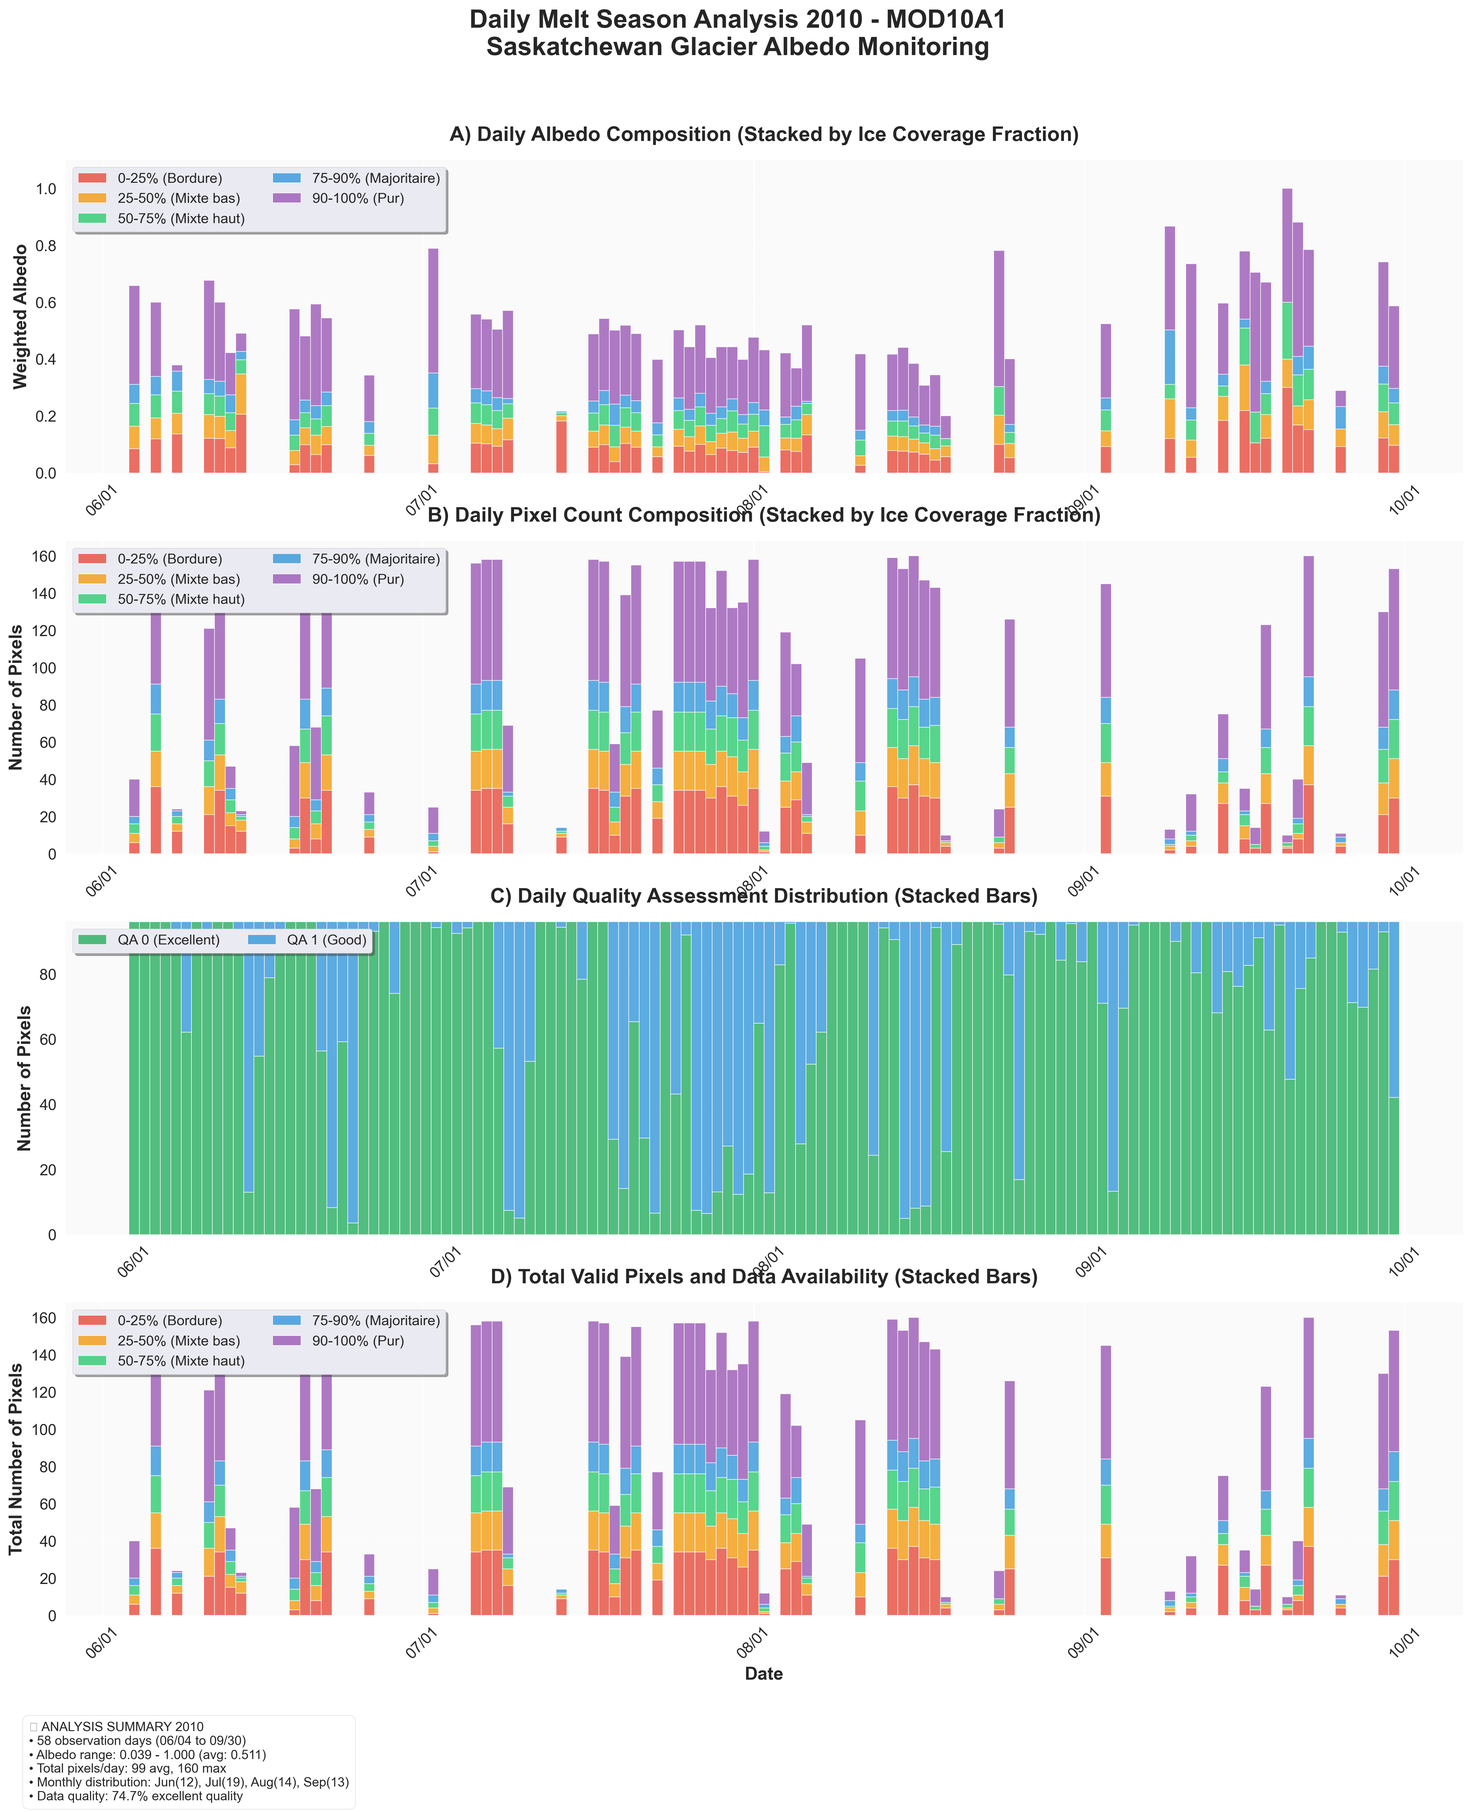
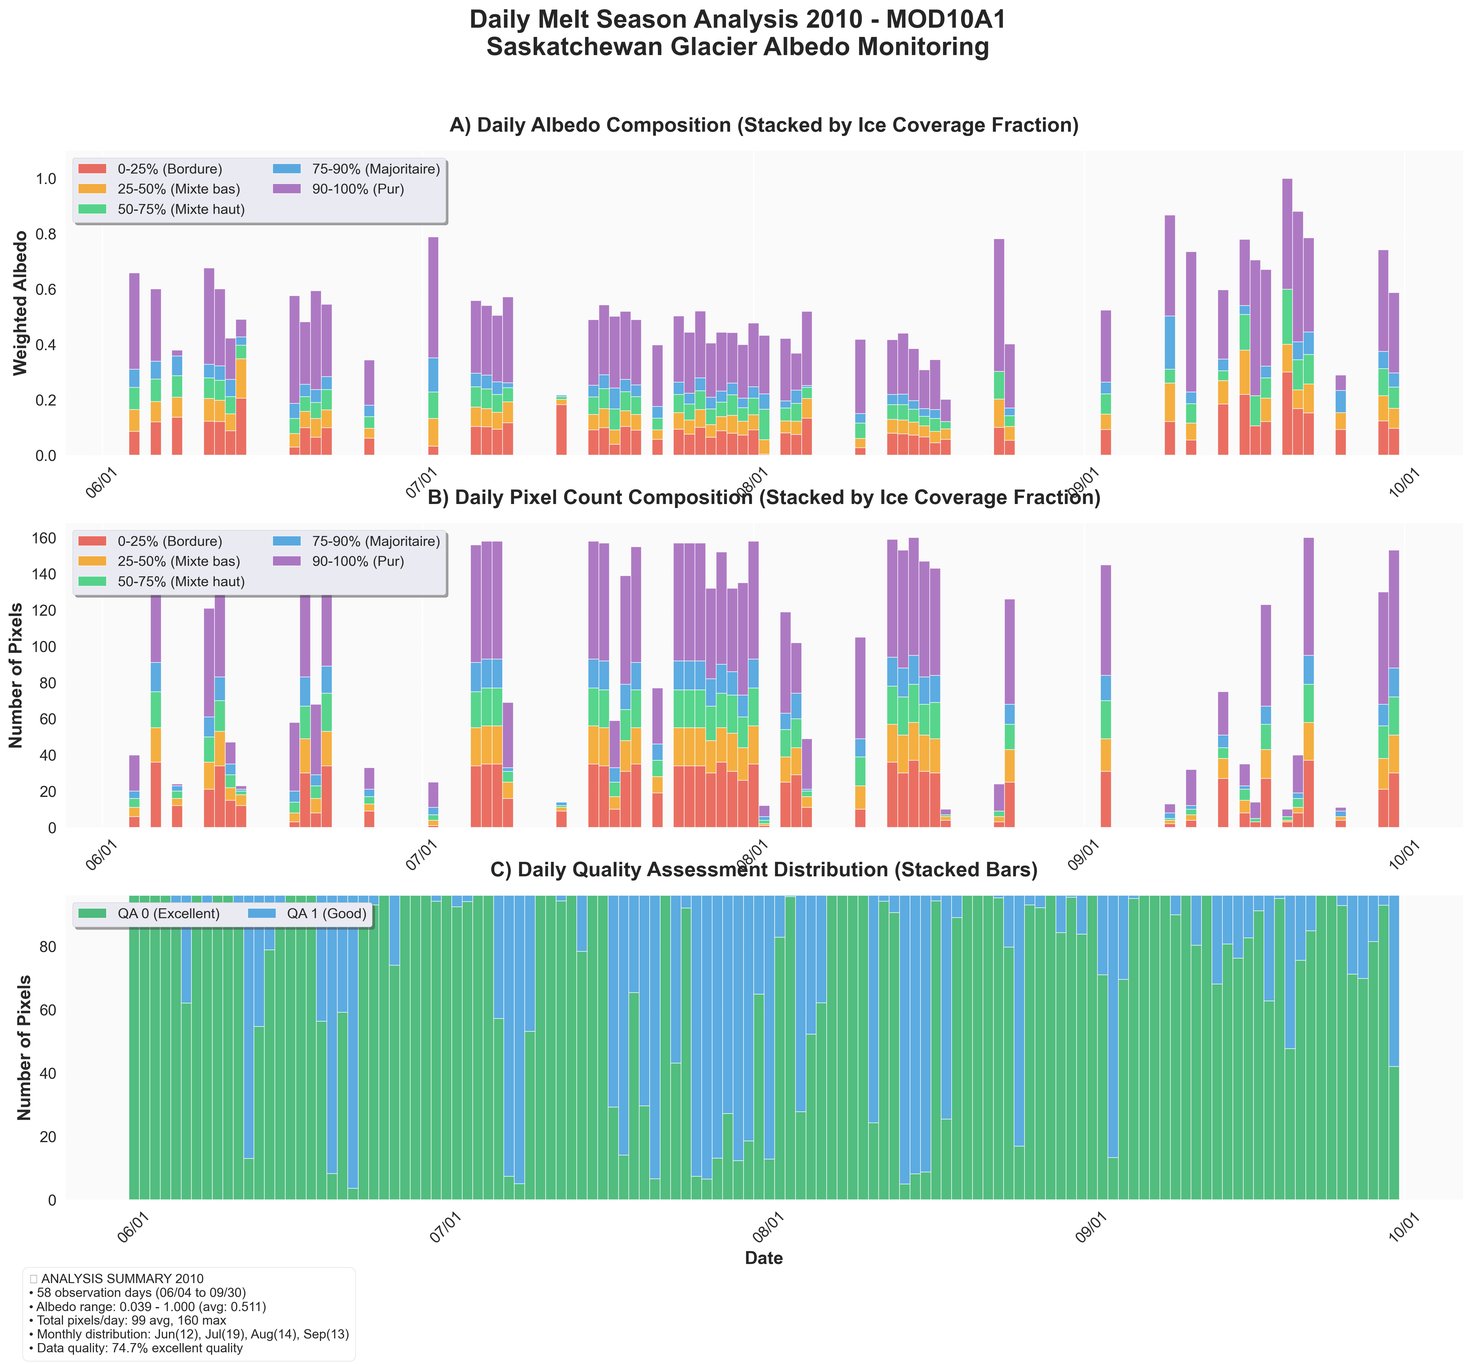
Fix timeseries comparison plots and add daily melt season comparison
- Simplified timeseries comparison from 3 to 2 panels (removed redundant panel)
- Added new plot_daily_melt_season_comparison() function for yearly analysis
- Creates individual yearly plots (2010-2024) showing daily albedo values
- MCD43A3 (circles) vs MOD10A1 (triangles) with monthly color coding
- Added run_daily_melt_season_comparison() function in analysis_functions
- Updated comparison menu with new option for daily melt season plots
- Added fraction selection interface for targeted analysis
- Enhanced statistics display with correlation, RMSE, and bias per year

🤖 Generated with [Claude Code](https://claude.ai/code)

diff --git a/src/saskatchewan_albedo/visualization/comparison_plots.py b/src/saskatchewan_albedo/visualization/comparison_plots.py
@@ -219,8 +219,8 @@ class ComparisonVisualizer:
         
         print(f"✅ Affichage de {len(plot_data)} points de données pour {fraction}")
         
-        # Créer le graphique avec style moderne - 3 panneaux
-        fig, (ax1, ax2, ax3) = plt.subplots(3, 1, figsize=(16, 16), sharex=True)
+        # Créer le graphique avec style moderne - 2 panneaux
+        fig, (ax1, ax2) = plt.subplots(2, 1, figsize=(16, 12), sharex=True)
         
         # GRAPHIQUE 1: SÉRIES TEMPORELLES - POINTS SEULEMENT
         # MCD43A3 - Points bleus
@@ -268,70 +268,14 @@ class ComparisonVisualizer:
         ax2.legend(loc='upper left', frameon=True, fancybox=True, shadow=True, fontsize=12)
         ax2.set_facecolor('#fafafa')
         
-        # GRAPHIQUE 3: COMPARAISON QUOTIDIENNE DES VALEURS D'ALBÉDO
-        print("✅ Génération du panneau de comparaison quotidienne des albédos...")
-        
-        # Obtenir toutes les données originales (pas seulement les merged)
-        mcd_data = self.comparison_data['mcd43a3']
-        mod_data = self.comparison_data['mod10a1']
-        
-        # Filtrer pour la fraction spécifique
-        mcd_fraction_col = f"{fraction}_mean"
-        mod_fraction_col = f"{fraction}_mean"
-        
-        # Points MCD43A3 - TOUS les points disponibles
-        if mcd_fraction_col in mcd_data.columns:
-            mcd_available = mcd_data[mcd_data[mcd_fraction_col].notna()]
-            if len(mcd_available) > 0:
-                ax3.scatter(mcd_available['date'], mcd_available[mcd_fraction_col], 
-                           c='#3498db', s=25, alpha=0.7, 
-                           label=f'MCD43A3 Daily Values ({len(mcd_available)} points)', zorder=5)
-        
-        # Points MOD10A1 - TOUS les points disponibles
-        if mod_fraction_col in mod_data.columns:
-            mod_available = mod_data[mod_data[mod_fraction_col].notna()]
-            if len(mod_available) > 0:
-                ax3.scatter(mod_available['date'], mod_available[mod_fraction_col], 
-                           c='#e74c3c', s=25, alpha=0.7,
-                           label=f'MOD10A1 Daily Values ({len(mod_available)} points)', zorder=5)
-        
-        # Points superposés (même date, même valeur) en vert pour bien les identifier
-        if len(plot_data) > 0:
-            ax3.scatter(plot_data['date'], plot_data[mcd_col], 
-                       c='#27ae60', s=15, alpha=0.9, marker='x',
-                       label=f'Overlapping Dates ({len(plot_data)} points)', zorder=10)
-        
-        ax3.set_ylabel('Albedo Values', fontsize=14, fontweight='bold')
-        ax3.set_xlabel('Date', fontsize=14, fontweight='bold')
-        ax3.set_title('C) Daily Albedo Values Comparison (All Available Data)', fontsize=16, fontweight='bold', pad=15)
-        ax3.legend(loc='upper left', frameon=True, fancybox=True, shadow=True, fontsize=12)
-        ax3.grid(True, alpha=0.4, linestyle=':', linewidth=0.8)
-        ax3.set_facecolor('#fafafa')
-        
-        # Calculer et afficher les statistiques des valeurs
-        mcd_stats = mcd_data[mcd_fraction_col].describe() if mcd_fraction_col in mcd_data.columns else None
-        mod_stats = mod_data[mod_fraction_col].describe() if mod_fraction_col in mod_data.columns else None
-        
-        stats_text_lines = ['Daily Albedo Stats:']
-        if mcd_stats is not None:
-            stats_text_lines.append(f'MCD43A3: {mcd_stats["mean"]:.3f}±{mcd_stats["std"]:.3f}')
-        if mod_stats is not None:
-            stats_text_lines.append(f'MOD10A1: {mod_stats["mean"]:.3f}±{mod_stats["std"]:.3f}')
-        if len(plot_data) > 0:
-            correlation = plot_data[mcd_col].corr(plot_data[mod_col])
-            stats_text_lines.append(f'Correlation (overlap): r={correlation:.3f}')
-        
-        stats_text = '\n'.join(stats_text_lines)
-        
-        ax3.text(0.02, 0.98, stats_text, 
-                transform=ax3.transAxes, fontsize=11, verticalalignment='top', horizontalalignment='left',
-                bbox=dict(boxstyle='round,pad=0.5', facecolor='white', edgecolor='lightgray', alpha=0.95))
+        # Ajouter l'étiquette X au panneau du bas
+        ax2.set_xlabel('Date', fontsize=14, fontweight='bold')
         
         # Formater l'axe des dates de façon moderne
-        ax3.xaxis.set_major_formatter(mdates.DateFormatter('%Y'))
-        ax3.xaxis.set_major_locator(mdates.YearLocator(2))  # Tous les 2 ans
-        ax3.xaxis.set_minor_locator(mdates.YearLocator())   # Marques mineures chaque année
-        plt.setp(ax3.xaxis.get_majorticklabels(), rotation=45, fontsize=12)
+        ax2.xaxis.set_major_formatter(mdates.DateFormatter('%Y'))
+        ax2.xaxis.set_major_locator(mdates.YearLocator(2))  # Tous les 2 ans
+        ax2.xaxis.set_minor_locator(mdates.YearLocator())   # Marques mineures chaque année
+        plt.setp(ax2.xaxis.get_majorticklabels(), rotation=45, fontsize=12)
         
         # Statistiques des différences améliorées
         diff_mean = differences.mean()
@@ -348,9 +292,153 @@ class ComparisonVisualizer:
         if save:
             filepath = f"{self.output_dir}/timeseries_comparison_{fraction}.png"
             plt.savefig(filepath, dpi=300, bbox_inches='tight', facecolor='white', edgecolor='none')
-            print(f"✓ Enhanced timeseries with ALL POINTS saved: {filepath}")
+            print(f"✓ Simplified timeseries comparison (2 panels) saved: {filepath}")
         
         return fig
+    
+    def plot_daily_melt_season_comparison(self, fraction='pure_ice', save=True):
+        """
+        Crée des graphiques de comparaison quotidienne par année de saison de fonte
+        
+        Args:
+            fraction (str): Fraction à analyser
+            save (bool): Sauvegarder les graphiques
+            
+        Returns:
+            list: Liste des chemins des graphiques sauvegardés
+        """
+        print_section_header(f"Graphiques quotidiens par saison de fonte - {CLASS_LABELS[fraction]}", level=3)
+        
+        mcd_col = f'mcd43a3_{fraction}_mean'
+        mod_col = f'mod10a1_{fraction}_mean'
+        
+        if mcd_col not in self.merged_data.columns or mod_col not in self.merged_data.columns:
+            print(f"❌ Données non disponibles pour {fraction}")
+            return []
+        
+        # Obtenir les données complètes (pas seulement merged)
+        mcd_data = self.comparison_data['mcd43a3'].copy()
+        mod_data = self.comparison_data['mod10a1'].copy()
+        
+        # Ajouter colonnes d'année et mois si nécessaires
+        mcd_data['year'] = pd.to_datetime(mcd_data['date']).dt.year
+        mcd_data['month'] = pd.to_datetime(mcd_data['date']).dt.month
+        mod_data['year'] = pd.to_datetime(mod_data['date']).dt.year  
+        mod_data['month'] = pd.to_datetime(mod_data['date']).dt.month
+        
+        # Filtrer pour la saison de fonte (juin-septembre)
+        mcd_melt = mcd_data[mcd_data['month'].isin([6, 7, 8, 9])].copy()
+        mod_melt = mod_data[mod_data['month'].isin([6, 7, 8, 9])].copy()
+        
+        # Obtenir les années disponibles
+        years = sorted(set(mcd_melt['year'].unique()) | set(mod_melt['year'].unique()))
+        years = [y for y in years if y >= 2010 and y <= 2024]  # Limiter à la période d'étude
+        
+        saved_plots = []
+        
+        for year in years:
+            print(f"🎯 Création du graphique de comparaison pour la saison de fonte {year}")
+            
+            # Données pour cette année
+            mcd_year = mcd_melt[mcd_melt['year'] == year].copy()
+            mod_year = mod_melt[mod_melt['year'] == year].copy()
+            
+            # Vérifier qu'on a des données pour au moins un des produits
+            mcd_fraction_col = f"{fraction}_mean"
+            mod_fraction_col = f"{fraction}_mean"
+            
+            mcd_valid = mcd_year[mcd_year[mcd_fraction_col].notna()] if mcd_fraction_col in mcd_year.columns else pd.DataFrame()
+            mod_valid = mod_year[mod_year[mod_fraction_col].notna()] if mod_fraction_col in mod_year.columns else pd.DataFrame()
+            
+            if len(mcd_valid) == 0 and len(mod_valid) == 0:
+                print(f"⚠ Pas de données pour {year}")
+                continue
+            
+            # Créer le graphique pour cette année
+            fig, ax = plt.subplots(figsize=(14, 8))
+            
+            # Couleurs par mois de la saison de fonte
+            month_colors = {6: '#e67e22', 7: '#27ae60', 8: '#e74c3c', 9: '#8e44ad'}  # Orange, Vert, Rouge, Violet
+            month_names = {6: 'June', 7: 'July', 8: 'August', 9: 'September'}
+            
+            # Plotting MCD43A3 data
+            for month in [6, 7, 8, 9]:
+                mcd_month = mcd_valid[mcd_valid['month'] == month]
+                if len(mcd_month) > 0:
+                    ax.scatter(mcd_month['date'], mcd_month[mcd_fraction_col], 
+                             c=month_colors[month], s=35, alpha=0.8, marker='o',
+                             label=f'MCD43A3 {month_names[month]} ({len(mcd_month)} pts)',
+                             edgecolors='white', linewidth=1)
+            
+            # Plotting MOD10A1 data  
+            for month in [6, 7, 8, 9]:
+                mod_month = mod_valid[mod_valid['month'] == month]
+                if len(mod_month) > 0:
+                    ax.scatter(mod_month['date'], mod_month[mod_fraction_col], 
+                             c=month_colors[month], s=35, alpha=0.8, marker='^',
+                             label=f'MOD10A1 {month_names[month]} ({len(mod_month)} pts)',
+                             edgecolors='black', linewidth=1)
+            
+            # Configuration du graphique
+            ax.set_title(f'Daily Melt Season Comparison {year} - {CLASS_LABELS[fraction]}\\n'
+                        f'MCD43A3 (circles) vs MOD10A1 (triangles)', 
+                        fontsize=16, fontweight='bold', pad=20)
+            ax.set_xlabel('Date', fontsize=14, fontweight='bold')
+            ax.set_ylabel('Albedo', fontsize=14, fontweight='bold')
+            
+            # Calculer les statistiques pour cette année
+            year_merged = self.merged_data[
+                (pd.to_datetime(self.merged_data['date']).dt.year == year) &
+                (pd.to_datetime(self.merged_data['date']).dt.month.isin([6, 7, 8, 9]))
+            ]
+            
+            if len(year_merged) > 5:
+                correlation = year_merged[mcd_col].corr(year_merged[mod_col])
+                rmse = np.sqrt(((year_merged[mod_col] - year_merged[mcd_col]) ** 2).mean())
+                bias = (year_merged[mod_col] - year_merged[mcd_col]).mean()
+                
+                stats_text = f'{year} Melt Season Stats:\\n'
+                stats_text += f'Correlation: r = {correlation:.3f}\\n'
+                stats_text += f'RMSE: {rmse:.4f}\\n'
+                stats_text += f'Bias (MOD-MCD): {bias:+.4f}\\n'
+                stats_text += f'Overlap points: {len(year_merged)}'
+            else:
+                stats_text = f'{year} Melt Season Stats:\\n'
+                stats_text += f'MCD43A3 points: {len(mcd_valid)}\\n'
+                stats_text += f'MOD10A1 points: {len(mod_valid)}\\n'
+                stats_text += f'Limited overlap data'
+            
+            # Ajouter les statistiques
+            ax.text(0.02, 0.98, stats_text, 
+                   transform=ax.transAxes, fontsize=11, verticalalignment='top',
+                   bbox=dict(boxstyle='round,pad=0.5', facecolor='white', 
+                            edgecolor='lightgray', alpha=0.95))
+            
+            # Légende et formatage
+            ax.legend(loc='upper right', frameon=True, fancybox=True, shadow=True, 
+                     fontsize=10, ncol=2)
+            ax.grid(True, alpha=0.4, linestyle=':', linewidth=0.8)
+            ax.set_facecolor('#fafafa')
+            
+            # Formatage des dates
+            ax.xaxis.set_major_formatter(mdates.DateFormatter('%m/%d'))
+            ax.xaxis.set_major_locator(mdates.MonthLocator())
+            plt.setp(ax.xaxis.get_majorticklabels(), rotation=45, fontsize=11)
+            
+            plt.tight_layout()
+            
+            # Sauvegarder
+            if save:
+                filepath = f"{self.output_dir}/daily_melt_season_comparison_{year}_{fraction}.png"
+                ensure_directory_exists(filepath)
+                plt.savefig(filepath, dpi=300, bbox_inches='tight', facecolor='white', edgecolor='none')
+                print(f"✓ Graphique saison de fonte {year} sauvegardé: {filepath}")
+                saved_plots.append(filepath)
+            
+            plt.close()
+        
+        print(f"\\n✅ {len(saved_plots)} graphiques de saisons de fonte créés")
+        return saved_plots
     
     def plot_difference_heatmap(self, save=True):
         """
@@ -559,6 +647,11 @@ class ComparisonVisualizer:
                 if fig5:
                     plots_generated.append(f"Séries temporelles {fraction}")
                     plt.close(fig5)
+                
+                # Graphiques quotidiens par saison de fonte
+                daily_plots = self.plot_daily_melt_season_comparison(fraction)
+                if daily_plots:
+                    plots_generated.append(f"Saisons de fonte quotidiennes {fraction} ({len(daily_plots)} graphiques)")
             except Exception as e:
                 print(f"❌ Erreur graphiques {fraction}: {e}")
         

diff --git a/scripts/main.py b/scripts/main.py
@@ -162,8 +162,9 @@ def show_comparison_menu():
     print("1⃣  Comparaison complète (corrélations + différences + tendances)")
     print("2⃣  Corrélations seulement")
     print("3⃣  Visualisations comparatives seulement")
+    print("4⃣  Graphiques quotidiens par saison de fonte")
     print()
-    print("4⃣  Retour au menu principal")
+    print("5⃣  Retour au menu principal")
     print()
     print("-" * 60)
 
@@ -176,16 +177,48 @@ def get_comparison_analysis_choice():
     
     while True:
         try:
-            choice = input("➤ Votre choix (1-4): ").strip()
-            if choice in ['1', '2', '3', '4']:
+            choice = input("➤ Votre choix (1-5): ").strip()
+            if choice in ['1', '2', '3', '4', '5']:
                 return int(choice)
             else:
-                print(f"❌ '{choice}' n'est pas valide. Tapez un chiffre de 1 à 4.")
+                print(f"❌ '{choice}' n'est pas valide. Tapez un chiffre de 1 à 5.")
         except KeyboardInterrupt:
             print("\n\n👋 Interruption.")
-            return 4
+            return 5
         except:
-            print("❌ Erreur de saisie. Tapez un chiffre de 1 à 4.")
+            print("❌ Erreur de saisie. Tapez un chiffre de 1 à 5.")
+
+def _get_fraction_choice():
+    """Permet à l'utilisateur de choisir la fraction à analyser"""
+    from saskatchewan_albedo.config import FRACTION_CLASSES, CLASS_LABELS
+    
+    print("\n" + "="*50)
+    print("🔍 CHOIX DE LA FRACTION À ANALYSER")
+    print("="*50)
+    print()
+    
+    for i, fraction in enumerate(FRACTION_CLASSES, 1):
+        print(f"{i}⃣  {CLASS_LABELS[fraction]}")
+    print()
+    print("-" * 50)
+    
+    while True:
+        try:
+            choice = input(f"➤ Votre choix (1-{len(FRACTION_CLASSES)}): ").strip()
+            choice_num = int(choice)
+            if 1 <= choice_num <= len(FRACTION_CLASSES):
+                selected_fraction = FRACTION_CLASSES[choice_num - 1]
+                print(f"✅ Fraction sélectionnée: {CLASS_LABELS[selected_fraction]}")
+                return selected_fraction
+            else:
+                print(f"❌ '{choice}' n'est pas valide. Tapez un chiffre de 1 à {len(FRACTION_CLASSES)}.")
+        except KeyboardInterrupt:
+            print("\n\n👋 Interruption.")
+            return 'pure_ice'  # Valeur par défaut
+        except ValueError:
+            print(f"❌ Erreur de saisie. Tapez un chiffre de 1 à {len(FRACTION_CLASSES)}.")
+        except:
+            print(f"❌ Erreur de saisie. Tapez un chiffre de 1 à {len(FRACTION_CLASSES)}.")
 
 def main():
     """Fonction principale avec support multi-datasets"""
@@ -307,7 +340,7 @@ def _handle_comparison_menu():
         show_comparison_menu()
         choice = get_comparison_analysis_choice()
         
-        if choice == 4:  # Retour au menu principal
+        if choice == 5:  # Retour au menu principal
             break
             
         try:
@@ -325,6 +358,14 @@ def _handle_comparison_menu():
                 # Visualisations comparatives
                 print("\n📈 Génération des visualisations comparatives...")
                 run_comparative_visualizations()
+                
+            elif choice == 4:
+                # Graphiques quotidiens par saison de fonte
+                print("\n📅 Graphiques quotidiens par saison de fonte...")
+                # Demander la fraction à analyser
+                fraction_choice = _get_fraction_choice()
+                from saskatchewan_albedo.scripts.analysis_functions import run_daily_melt_season_comparison
+                run_daily_melt_season_comparison(fraction_choice)
                 
         except Exception as e:
             print(f"\n❌ Erreur lors de la comparaison: {e}")

diff --git a/src/saskatchewan_albedo/scripts/analysis_functions.py b/src/saskatchewan_albedo/scripts/analysis_functions.py
@@ -597,6 +597,42 @@ def run_correlation_analysis():
         traceback.print_exc()
         return False
 
+def run_daily_melt_season_comparison(fraction='pure_ice'):
+    """Exécute la génération de graphiques quotidiens de saison de fonte pour comparaison"""
+    comparison_output_path = PROJECT_DIR / OUTPUT_DIR / "comparison"
+    ensure_directory_exists(str(comparison_output_path))
+    
+    try:
+        from saskatchewan_albedo.data.dataset_manager import DatasetManager
+        from saskatchewan_albedo.visualization.comparison_plots import ComparisonVisualizer
+        
+        print_section_header(f"GRAPHIQUES QUOTIDIENS SAISON DE FONTE - {fraction.upper()}", level=1)
+        print(f"📁 Dossier de sortie: {comparison_output_path}")
+        
+        # Préparer les données de comparaison
+        manager = DatasetManager()
+        comparison_data = manager.prepare_comparison_data(sync_dates=False)  # Pas de sync pour avoir toutes les données
+        
+        # Créer les visualisations
+        visualizer = ComparisonVisualizer(comparison_data, str(comparison_output_path))
+        daily_plots = visualizer.plot_daily_melt_season_comparison(fraction, save=True)
+        
+        print(f"\n✅ GRAPHIQUES QUOTIDIENS SAISON DE FONTE TERMINÉS !")
+        print(f"   📊 {len(daily_plots)} graphiques générés pour {fraction}")
+        print(f"📁 Graphiques sauvegardés dans: {comparison_output_path}")
+        
+        # Lister les fichiers créés
+        for plot_path in daily_plots:
+            print(f"  ✓ {plot_path}")
+        
+        return True
+        
+    except Exception as e:
+        print(f"\n❌ ERREUR GRAPHIQUES QUOTIDIENS: {e}")
+        import traceback
+        traceback.print_exc()
+        return False
+
 def run_custom_analysis(dataset_name, analysis_type):
     """Exécute une analyse personnalisée"""
     try:
